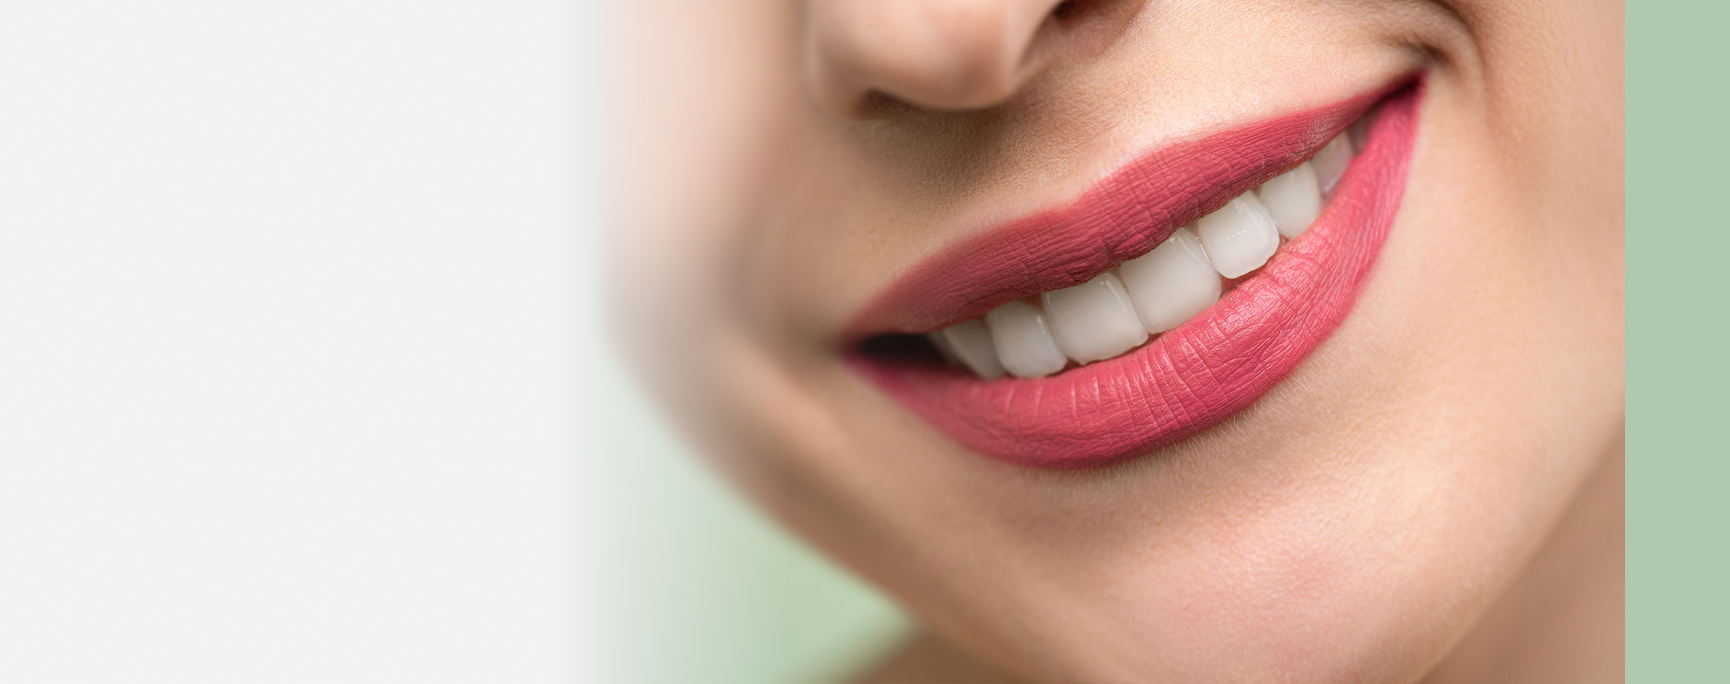
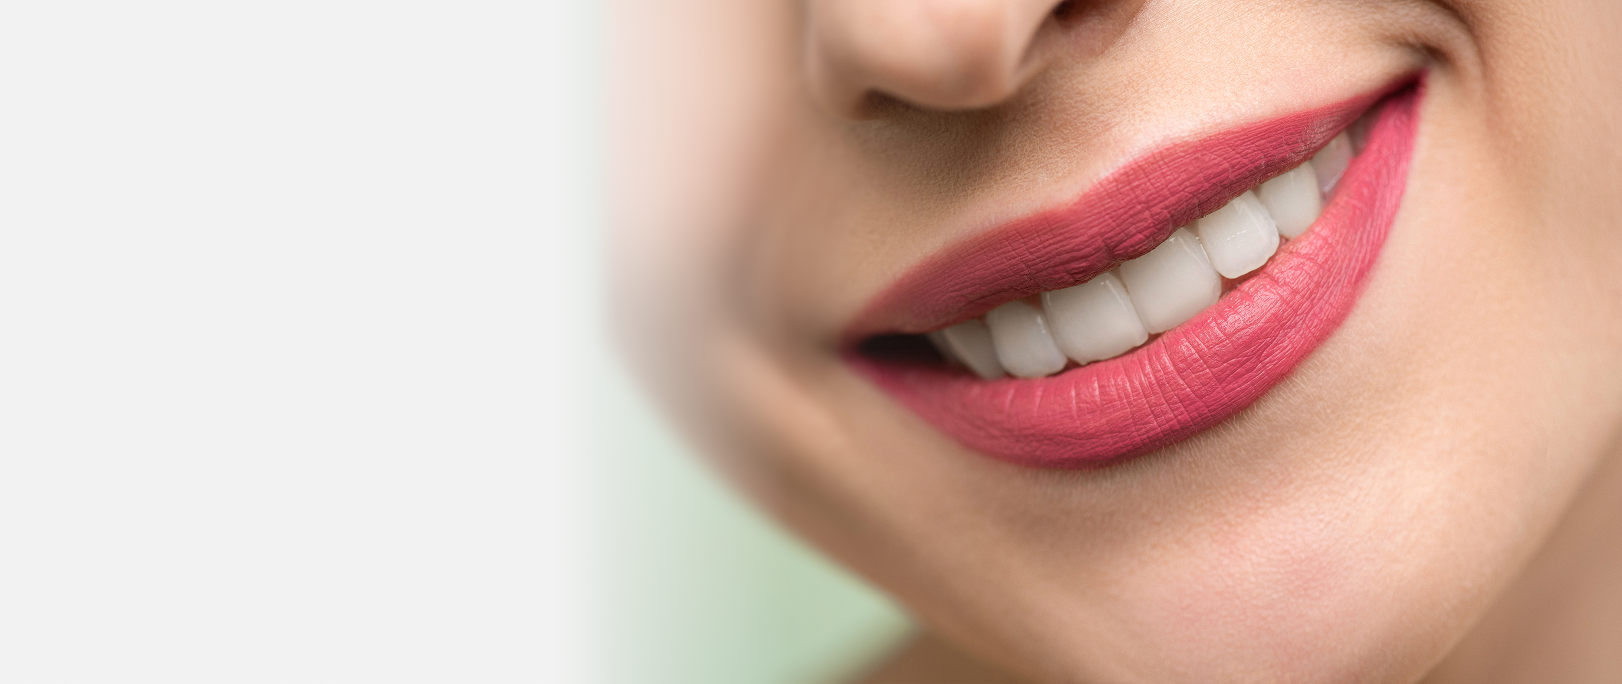
hero

diff --git a/src/assets/css/page/home.css b/src/assets/css/page/home.css
@@ -5,9 +5,18 @@
     gap: var(--space-20);
 }
 
-.hero-image {
-  height: 100%;
-  aspect-ratio: 1/1;
+.hero-image-background {
+  background-image: var(--hero-image);
+  background-position: center;
+  background-size: cover;
+}
+
+.hero-section .section-content {
+  min-height: 400px;
+}
+
+.hero-image-column {
+  visibility: hidden;
 }
 
 @media (max-width: 768px) {
@@ -17,13 +26,8 @@
     gap: var(--space-12);
   }
 
-  .hero-image {
-    width: 100%;
-    max-width: 200px;
-    margin: 0 auto var(--space-12);
-    height: auto;
-    aspect-ratio: 1/1;
-    object-fit: contain;
+  .hero-image-column {
+    display: none;
   }
 
 }
